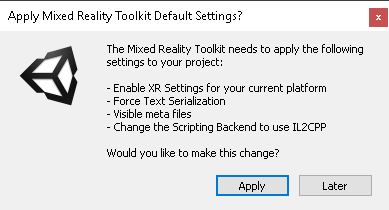
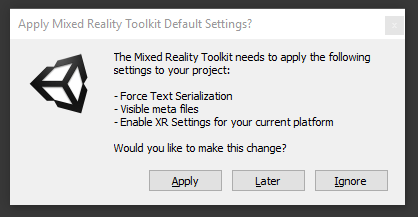
Update the docs to mention that set of supported Unity 2018 backend/install options
https://github.com/microsoft/MixedRealityToolkit-Unity/issues/3878

We had a question a little while ago about which components should be installed with Unity - this just updates our docs to explicitly state that we support both of the scripting backends on Unity 2018, so people install Unity 2018 can install either (or both!)

Also updates the MRTK_UnitySetupPrompt.png image, because we got rid of the "forcing people to IL2CPP" dialog.

diff --git a/Documentation/GettingStartedWithTheMRTK.md b/Documentation/GettingStartedWithTheMRTK.md
@@ -10,6 +10,9 @@ To get started with the Mixed Reality Toolkit you will need:
 
 * [Visual Studio 2017](http://dev.windows.com/downloads)
 * [Unity 2018.3.x](https://unity3d.com/get-unity/download/archive)
+
+  MRTK supports both IL2CPP and .NET scripting backends on Unity 2018
+
 * [Latest MRTK release](https://github.com/Microsoft/MixedRealityToolkit-Unity/releases)
 * You don't need this to simulate in Unity Editor or run in VR, but if you want to build your MRTK project as a UWP to run on HoloLens, you will need [Windows SDK 18362+](https://developer.microsoft.com/en-US/windows/downloads/windows-10-sdk).
 
